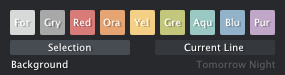
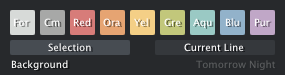
Added all theme variation hex palettes

diff --git a/README.md b/README.md
@@ -11,24 +11,74 @@ Tomorrow theme variations in shown in TextMate with Ruby code.
 ![Ruby Code in Tomorrow Night Eighties](https://github.com/ChrisKempson/Tomorrow-Theme/raw/master/Tomorrow-Night-Eighties.png)
 ![Ruby Code in Tomorrow Night Blue](https://github.com/ChrisKempson/Tomorrow-Theme/raw/master/Tomorrow-Night-Blue.png)
 
-## Hexy Palettes
+## Hex Palettes
+
+### Tomorrow Night
 ![Tomorrow Night](https://github.com/ChrisKempson/Tomorrow-Theme/raw/master/Tomorrow-Night-Palette.png)
 
- #1d1f21 Background  
- #282a2e Current Line  
- #373b41 Selection  
- #c5c8c6 Foreground  
- #969896 Grey  
- #cc6666 Red  
- #de935f Orange  
- #f0c674 Yellow  
- #b5bd68 Green  
- #8abeb7 Aqua  
- #81a2be Blue  
- #b294bb Purple  
+`#1d1f21` Background  
+`#282a2e` Current Line  
+`#373b41` Selection  
+`#c5c8c6` Foreground  
+`#969896` Comment  
+`#cc6666` Red  
+`#de935f` Orange  
+`#f0c674` Yellow  
+`#b5bd68` Green  
+`#8abeb7` Aqua  
+`#81a2be` Blue  
+`#b294bb` Purple  
+
+### Tomorrow
+![Tomorrow](https://github.com/ChrisKempson/Tomorrow-Theme/raw/master/Tomorrow-Palette.png)
+
+`#ffffff` Background  
+`#e9efff` Current Line  
+`#c5cce9` Selection  
+`#4d4d4c` Foreground  
+`#8e908c` Comment  
+`#c82829` Red  
+`#f5871f` Orange  
+`#eab700` Yellow  
+`#718c00` Green  
+`#3e999f` Aqua  
+`#4271ae` Blue  
+`#8959a8` Purple
+
+### Tomorrow Night Eighties
+![Tomorrow Night Eighties](https://github.com/ChrisKempson/Tomorrow-Theme/raw/master/Tomorrow-Night-Eighties-Palette.png)
+
+`#2d2d2d` Background  
+`#393939` Current Line  
+`#515151` Selection  
+`#cccccc` Foreground  
+`#999999` Comment  
+`#f2777a` Red  
+`#f99157` Orange  
+`#ffcc66` Yellow  
+`#99cc99` Green  
+`#009999` Aqua  
+`#99cccc` Blue  
+`#cc99cc` Purple
+
+### Tomorrow Night Blue
+![Tomorrow Night Blue](https://github.com/ChrisKempson/Tomorrow-Theme/raw/master/Tomorrow-Night-Blue-Palette.png)
+
+`#002451` Background  
+`#00346e` Current Line  
+`#003f8e` Selection  
+`#ffffff` Foreground  
+`#7285b7` Comment  
+`#ff9da4` Red  
+`#ffc58f` Orange  
+`#ffeead` Yellow  
+`#d1f1a9` Green  
+`#99ffff` Aqua  
+`#bbdaff` Blue  
+`#ebbbff` Purple
 
 ## Language Support
-The theme has been designed to be language independent and should look great with any language. However, if you find this isn't the case, just send me some sample code and I'll fix it!
+The theme has been designed to be language independent and should look great with any language. However, if you find this isn't the case, just send me some sample code and I'll try to fix it!
 
 ## The Future?
-I may be releasing other variations of this theme and will certainly be adding support for other editors (any suggestions?). The theme may even branch out from being an editor theme to more of a generic colour scheme used for colouring anything that can be themed i.e. ANSI terminal colours.
+I may be releasing other variations of this theme and will certainly be adding support for other more text editors/IDEs.
